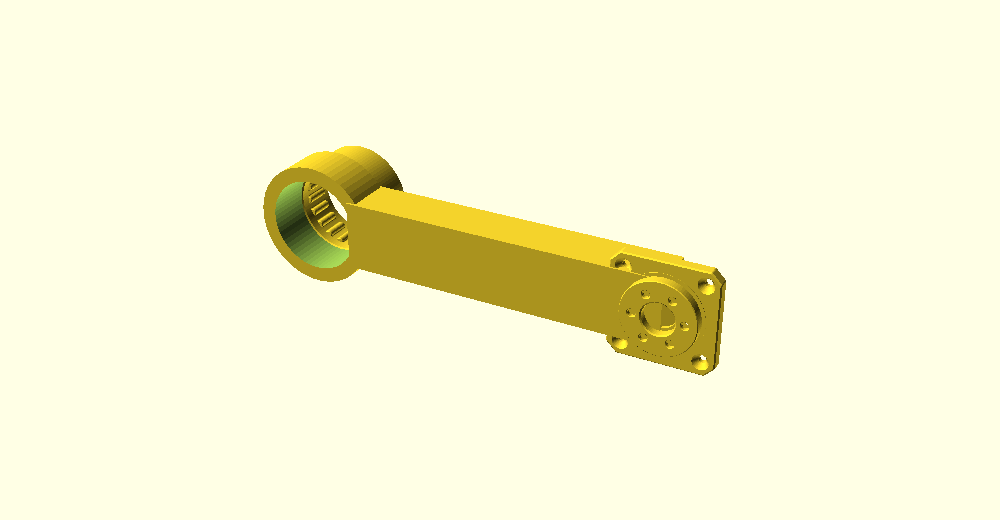
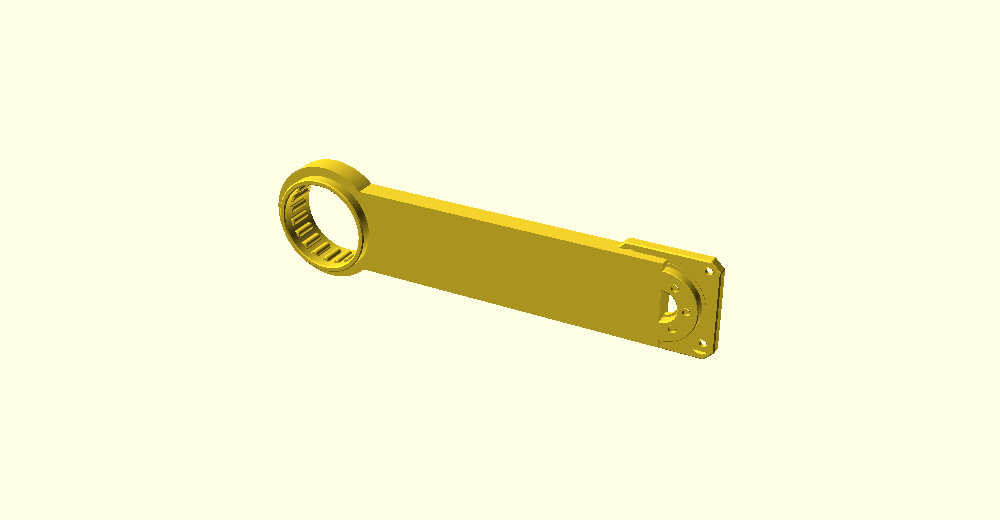
arm_section: arm is the plate extended (flat blade), flush both ends
Per inspection of the STEP: make the arm the NEMA mount-plate extended to the
body (ARM_T = plate edge = 9mm, coplanar/centered), tall in Z for sag stiffness.
Fixes the ~1mm-proud body end (arm+saddle now within the 18.2mm body width) and
keeps the mount-plate edge clear of the arm. Drops the old tall beam + gusset;
adds a flush body saddle to fair the blade into the round body.

Changed region(s): [[0.248, 0.2769, 0.744, 0.7385]]

diff --git a/arm_section.py b/arm_section.py
@@ -19,22 +19,24 @@ tall in Z (gravity sag bends it about Y; stiffness ~ height^2).
 """
 import os, sys
 from build123d import (
-    import_step, export_stl, export_step, Solid, Box, Cylinder, Pos, Rot,
-    Plane, Polygon, extrude, Axis,
+    import_step, export_stl, export_step, Box, Cylinder, Pos, Rot,
 )
 
 HERE = os.path.dirname(os.path.abspath(__file__))
 MICRO = os.path.join(HERE, "vendor", "micro")
 
-# ---- micro actuator (20:1) + beam params (match arm_section.scad) ----
+# ---- micro actuator (20:1) + arm params ----
 ACT_R   = 21.0          # housing outer radius
 HOUS_H  = 18.2          # housing height (along its axis)
-BASE_H  = 9.0           # NEMA17 plate thickness
+BASE_H  = 9.0           # NEMA17 plate thickness (= the mount-plate edge)
 BORE_R  = 17.0          # housing inner bore (disc cavity) radius
 SEG_LEN = 150.0         # housing center -> base center
-BEAM_H  = 28.0          # beam height (Z) -- the stiff (anti-sag) direction
-BEAM_W  = 20.0          # beam width (Y) -- ~ actuator width
-WALL    = 4.0           # collar/gusset wall
+# The arm is the NEMA plate EXTENDED to the body: same thickness as the plate
+# edge (flush + centered on Y, so the plate edge stays clear and the body end is
+# flush, never proud), and tall in Z so it resists gravity sag (stiffness ~ Z^2).
+ARM_T   = BASE_H        # arm thickness (Y) = plate edge -> flush both ends
+ARM_Z   = 36.0          # arm height (Z), the stiff anti-sag direction (< body OD)
+WALL    = 4.0           # body saddle wall
 
 
 def _load(name):
@@ -57,19 +59,16 @@ def long_section(length=SEG_LEN):
     housing = _axis_to_y(_load("housing"))                 # proximal output, X=0
     base = Pos(length, 0, 0) * _axis_to_y(_load("base_nema17"))  # distal motor mount
 
-    # collar: grips the housing wall (inner bites to BORE_R+2, keeping the disc
-    # cavity clear), outer proud for the beam to fuse onto. Axis along Y.
-    collar = Rot(90, 0, 0) * (Cylinder(ACT_R + WALL, HOUS_H) - Cylinder(BORE_R + 2, HOUS_H))
+    # the arm = the plate extended to the body: a flat blade ARM_T thick (Y,
+    # flush + centered) and tall in Z. Starts at the bore wall (clears the disc
+    # cavity), runs to the base center where it merges with the plate.
+    arm = Pos((BORE_R + length) / 2, 0, 0) * Box(length - BORE_R, ARM_T, ARM_Z)
 
-    # beam: from the bore wall to the base center, tall in Z, centered on Y.
-    beam = Pos((BORE_R + length) / 2, 0, 0) * Box(length - BORE_R, BEAM_W, BEAM_H)
+    # saddle: hugs the body OD over the arm's width only (flush in Y) to fair the
+    # flat arm into the round body and carry the root moment. No bore intrusion.
+    saddle = Rot(90, 0, 0) * (Cylinder(ACT_R + WALL, ARM_T) - Cylinder(ACT_R - 2, ARM_T))
 
-    # gusset: triangular brace blending the beam down onto the base face.
-    tri = Polygon((length, -BEAM_H/2), (length, BEAM_H/2), (length - BEAM_H, -BEAM_H/2),
-                  align=None)
-    gusset = extrude(Plane.XZ * tri, BEAM_W/2, both=True)
-
-    return housing + collar + beam + gusset + base
+    return housing + saddle + arm + base
 
 
 def main():